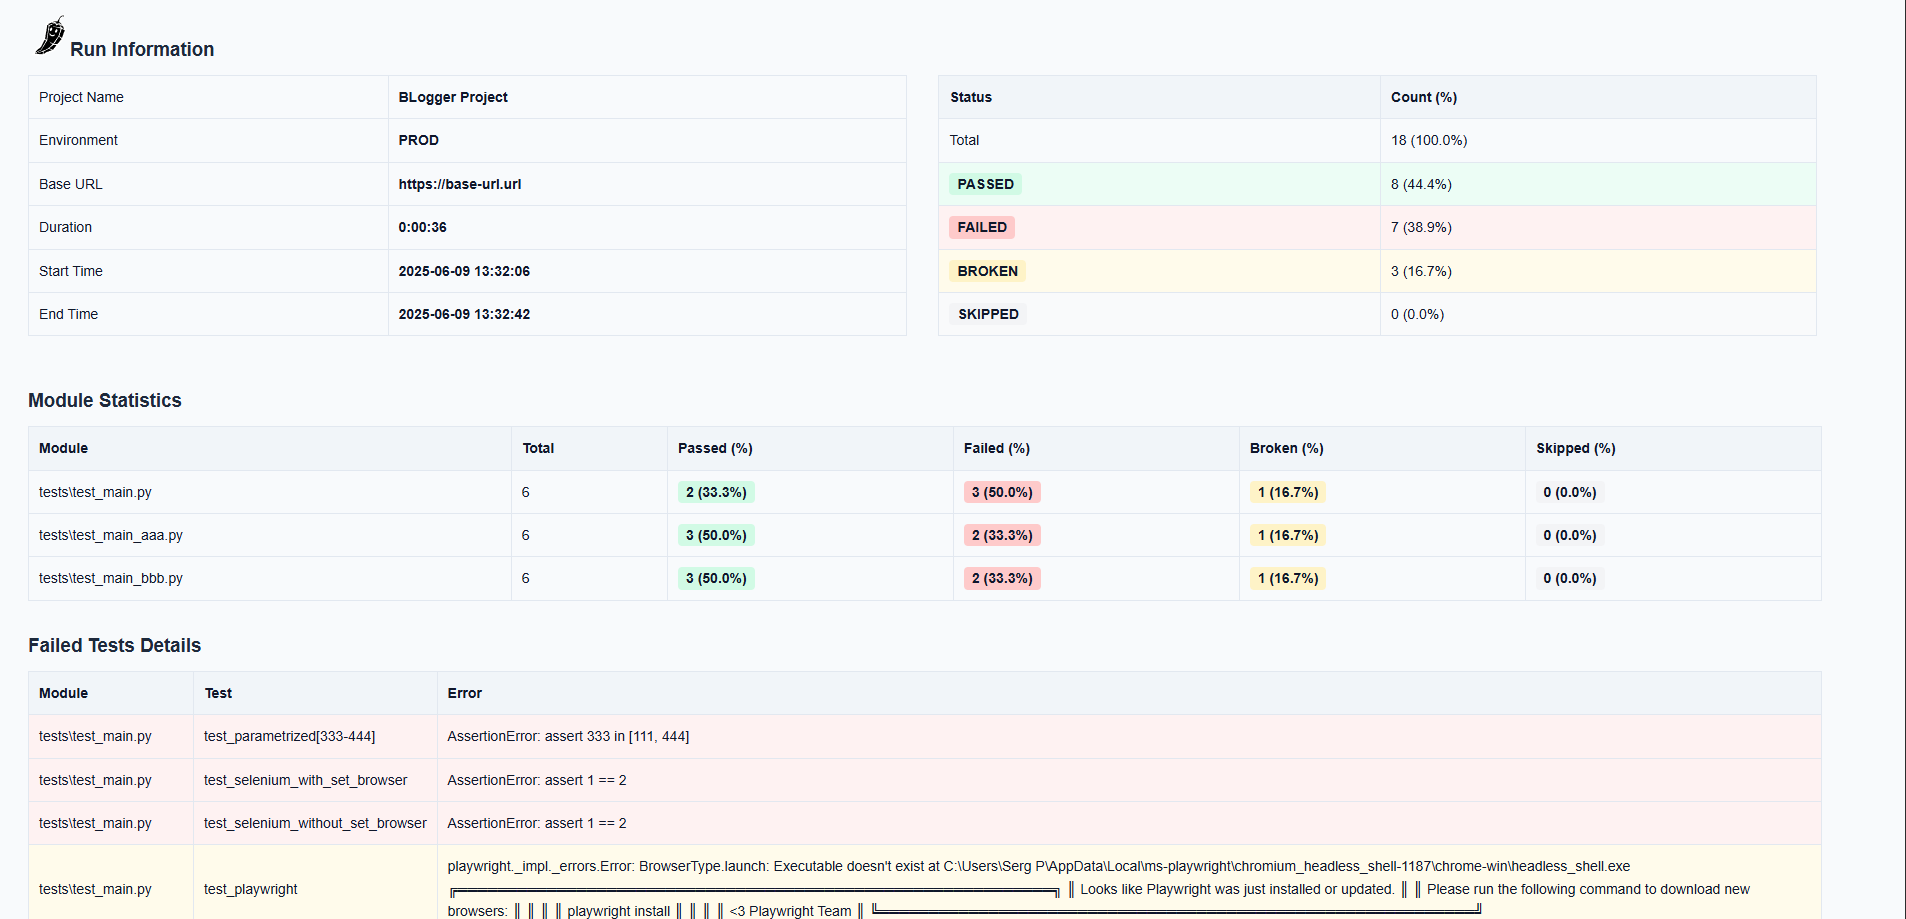
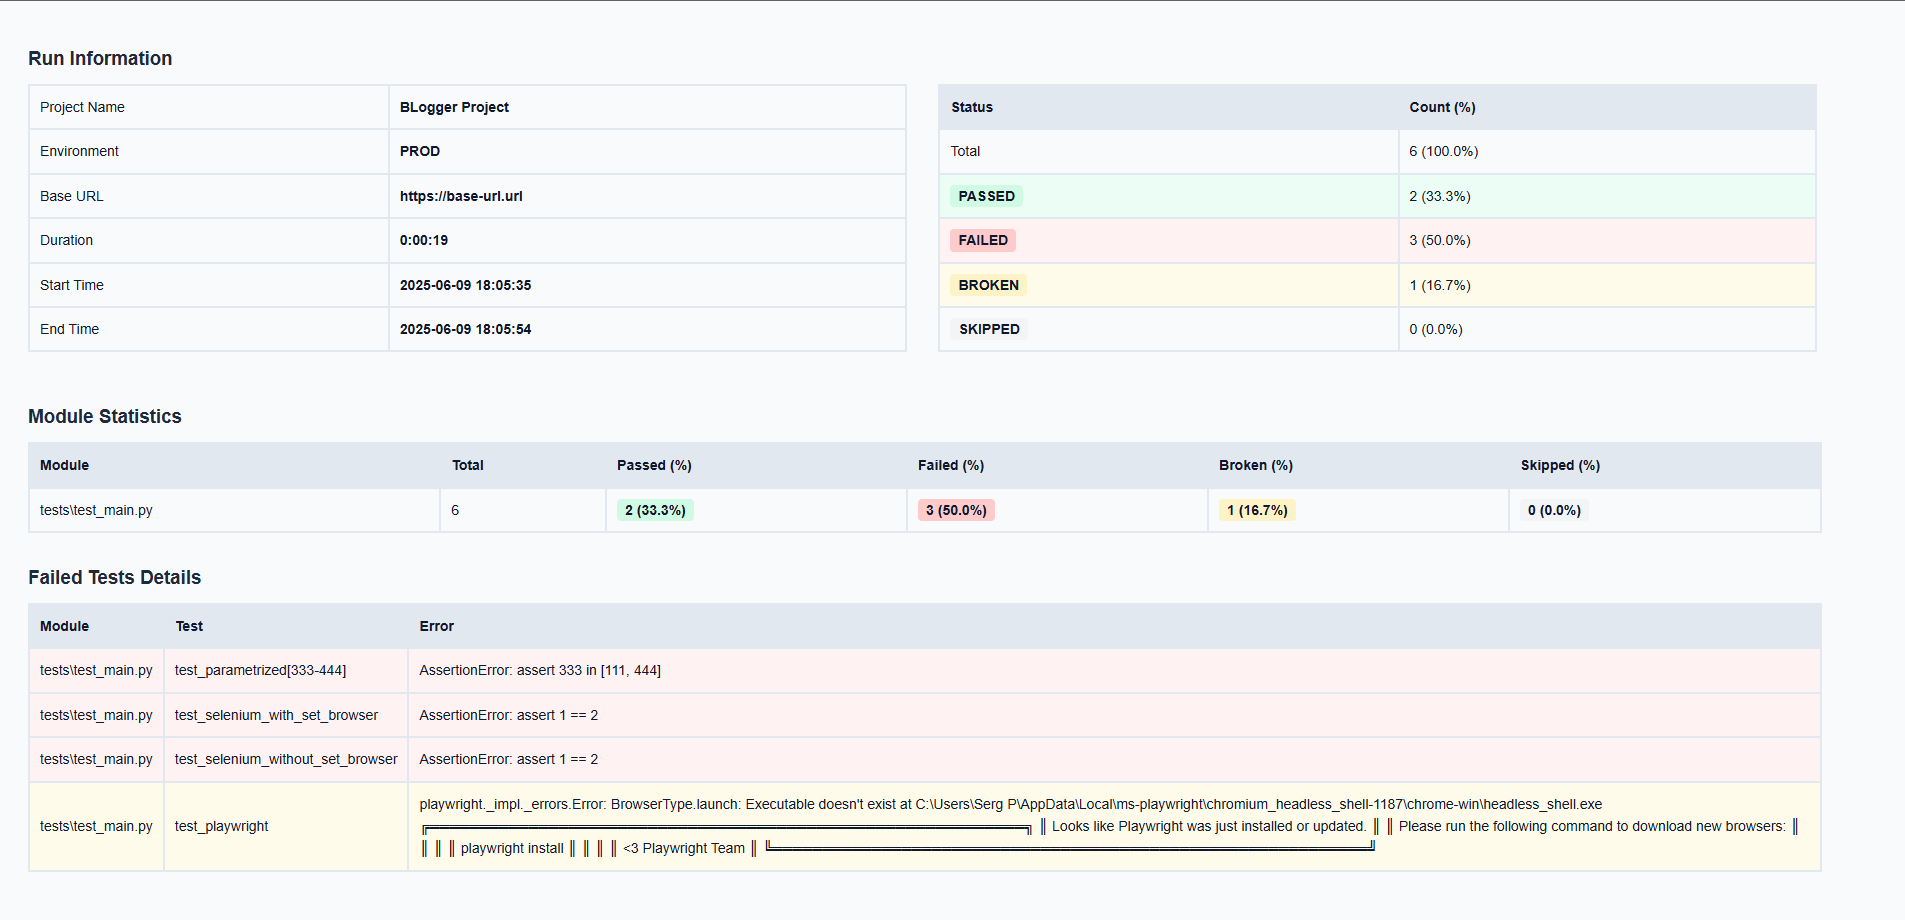
v1.0.7 (v4) slight fixes

diff --git a/b_logger/templates/styles.css b/b_logger/templates/styles.css
@@ -42,7 +42,7 @@ body {
 
   --bg: #F8FAFC;
   --bg-card: #FFFFFF;
-  --bg-light: #F1F5F9;
+  --bg-light: #e6ebed;
   --bg-strong: #ced3d9;
 
   --text: #0F172A;
@@ -53,7 +53,7 @@ body {
   --border-light: #F1F5F9;
 
   /* Misc */
-  --shadow: 0px 0px 10px rgba(0, 0, 0, 0.2);
+  --shadow: 0px 0px 15px rgba(0, 0, 0, 0.3);
   --radius: 8px;
   --radius-sm: 4px;
 }
@@ -307,10 +307,10 @@ a { text-decoration: underline; }
    TESTS
 ================================= */
 .test {
-  border: 1px solid var(--border);
+  border: 1px solid var(--bg-strong);
   border-radius: var(--radius-sm);
   box-shadow: var(--shadow);
-  margin-bottom: 1rem;
+  margin-bottom: 0.5rem;
   border-left: 5px solid;
 }
 .test.passed { border-left-color: var(--passed); }
@@ -319,20 +319,20 @@ a { text-decoration: underline; }
 .test.skipped { border-left-color: var(--skipped); }
 
 .test-header {
-  padding: 0.75rem;
+  padding: 0.5rem;
+  padding-left: 0.75rem;
   display: flex;
   border-radius: var(--radius-sm);
   justify-content: space-between;
   align-items: center;
   cursor: pointer;
-  background: var(--bg-light);
+  background: var(--card);
   transition: background 0.2s;
 }
 .test-name { font-weight: 600; }
-.test-content { border-top: 1px solid var(--border); }
 
 .test.test-multi { border-left: 4px solid var(--primary); }
-.test.test-sub { margin-left: 1rem; margin-right: 1rem; margin-top: 0.75rem; }
+.test.test-sub { margin: 0.5rem; }
 
 /* Test info band */
 .test-info { display: flex; justify-content: space-between; align-items: center; margin: 0rem 0; gap: 1rem; }
@@ -368,7 +368,7 @@ a { text-decoration: underline; }
 
 .tab-content {
 	display: none;
-	padding: 1rem;
+	padding: 0.75rem;
 }
 
 .tab-content.active {

diff --git a/b_logger/templates/base_macros.html b/b_logger/templates/base_macros.html
@@ -68,7 +68,7 @@
 {% set skipped = report.run_results.SKIPPED %}
 {% set total = passed + failed + broken + skipped %}
 <div class="card">
-    <div class="header" onclick="toggleCard(this)">
+    <div class="header expanded" onclick="toggleCard(this)">
         <h3><i class="fas fa-chart-pie"></i> Test Results Summary</h3>
         <i class="fas fa-chevron-down toggle-icon"></i>
     </div>

diff --git a/b_logger/templates/summary_template.html b/b_logger/templates/summary_template.html
@@ -23,13 +23,13 @@
         }
 
         th, td {
-          border: 1px solid #E2E8F0;
+          border: 2px solid #E2E8F0;
           padding: 10px;
           text-align: left;
         }
 
         th {
-          background-color: #F1F5F9;
+          background-color: #E2E8F0;
           font-weight: bold;
         }
 
